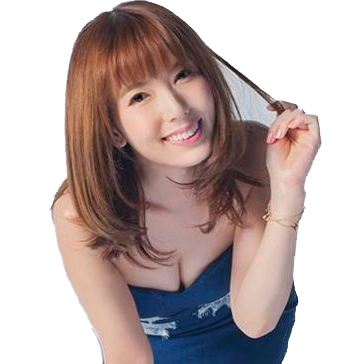
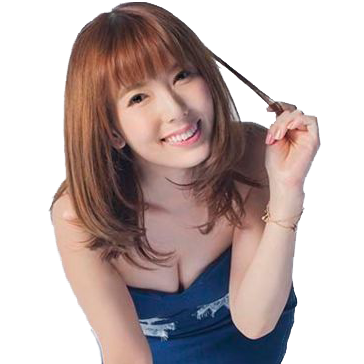
WeChat

diff --git a/src/MeowvBlog.API/wwwroot/css/main.min.css b/src/MeowvBlog.API/wwwroot/css/main.min.css
@@ -1,1 +1,1 @@
-@media(min-width:768px){.navbar{border-radius:0}.navbar-default .navbar-nav>li>a{padding-top:0;padding-bottom:0;line-height:40px;color:#999;font-weight:600}.nav>li>a{padding:0 25px}}.affix{width:100%;top:0;z-index:2}.navbar{margin:0;min-height:40px;box-shadow:none}.navbar-default .navbar-nav>li>a{color:#999;font-weight:normal}.navbar-default .navbar-nav>.active>a,.navbar-default .navbar-nav>.active>a:hover,.navbar-default .navbar-nav>.active>a:focus{color:#242424;background-color:transparent}.navbar-brand{height:auto;padding:0 0 0 15px}.navbar-default .navbar-toggle{margin-top:0;margin-bottom:0}.thumbnail{padding:5px 15px;overflow:hidden;border:none;box-shadow:1px 1px 1px rgba(229,229,229,.3)}.table td{white-space:pre}.panel{box-shadow:none}.panel-default{border:1px solid #efefef}.pagination>li>a,.pagination>li>span{color:#28a745;border:1px solid #efefef}.pagination>li>a:hover,.pagination>li>span:hover,.pagination>li>a:focus,.pagination>li>span:focus{color:#fff;background-color:#28a745}.pagination>.active>a,.pagination>.active>span,.pagination>.active>a:hover,.pagination>.active>span:hover,.pagination>.active>a:focus,.pagination>.active>span:focus{background-color:#28a745;border-color:#efefef}.pagination>.disabled>span,.pagination>.disabled>span:hover,.pagination>.disabled>span:focus,.pagination>.disabled>a,.pagination>.disabled>a:hover,.pagination>.disabled>a:focus{border-color:#efefef}textarea:focus,textarea.form-control:focus,input.form-control:focus,input[type=text]:focus,input[type=password]:focus,input[type=email]:focus,input[type=number]:focus,[type=text].form-control:focus,[type=password].form-control:focus,[type=email].form-control:focus,[type=tel].form-control:focus,[contenteditable].form-control:focus{-webkit-box-shadow:inset 0 -2px 0 #28a745;box-shadow:inset 0 -2px 0 #28a745}.btn{border:1px;box-shadow:none}.btn-blue{color:#999;background-color:#fff;border:1px solid #efefef}.btn-blue:hover,.btn-blue:focus,.btn-blue.focus,.btn-blue:active,.btn-blue.active,.open>.dropdown-toggle.btn-blue{color:#fff;background-color:#28a745;border-color:#efefef}.list-group-item{padding:10px;border:1px solid #efefef}.label-default{background-color:#efefef;color:#a6a6a6}.well{background-color:#28a745;color:#fff;font-weight:700;border-radius:3px}::-moz-selection{background:#fff;color:#000;text-shadow:none}::selection{background:#fff;color:#000;text-shadow:none}::-webkit-scrollbar{width:8px;height:8px}::-webkit-scrollbar-track{background:#fff;-webkit-box-shadow:inset 1px 1px 2px #e0e0e0;border:1px solid #d8d8d8}::-webkit-scrollbar-thumb{background:#e8e8e8;-webkit-box-shadow:inset 1px 1px 2px rgba(155,155,155,.4)}::-webkit-scrollbar-thumb:hover{-webkit-box-shadow:inset 1px 1px 10px rgba(0,0,0,.3)}::-webkit-scrollbar-thumb:active{background:#242424;-webkit-box-shadow:inset 1px 1px 2px rgba(0,0,0,.3)}body{position:relative;font-size:14px;background-color:#f9f9f9;font-family:'Lucida Grande','Helvetica Neue',Helvetica,Arial,Verdana,'Hiragino Sans GB','Microsoft YaHei',STHeiti,'WenQuanYi Micro Hei',SimSun,sans-serif}embed{display:none}::selection{background-color:rgba(40,167,69,.7);color:#fff}a{color:#797979}a:hover{color:#28a745;text-decoration:none}.vc-pt15{padding-top:15px}.vc-header{background-color:#fff;padding:5px 0;border-bottom:1px solid #efefef}.vc-header .vc-logo{margin:0;padding:0;width:100px;height:40px;text-indent:-999px;background:url(../imgs/logo.png) no-repeat}@media only screen and (-Webkit-min-device-pixel-ratio:1.5),only screen and (-moz-min-device-pixel-ratio:1.5),only screen and (-o-min-device-pixel-ratio:3/2),only screen and (min-device-pixel-ratio:1.5){.vc-header .vc-logo{margin:0;padding:0;width:100px;height:40px;text-indent:-999px;background:url(../imgs/logo@2x.png) no-repeat;background-size:100px 40px}}.vc-container{padding-top:60px}.vc-page-title{margin-top:10px;font-size:30px}.vc-page-title a{color:#555}.vc-page-title a:hover{color:#28a745}.vc-author-info{color:#aaa;font-size:14px;line-height:18px}.vc-author-info a{color:#aaa}.vc-author-info a:hover{color:#28a745}.vc-author-info>time,.vc-author-info>span{margin:0 .3em 0}.vc-author-info>:first-child{margin-left:0}.vc-pagelist-img{margin:-5px -15px 0}.vc-pagelist-img img{width:100%}.vc-widget-title{font-size:18px;margin:0 auto;padding:15px 15px 0}.vc-blog{width:100%;height:auto;padding:0 20px 20px}.vc-blog-title{font-size:30px;line-height:42px;font-weight:normal;text-transform:none}.vc-blog-content{width:100%;height:auto;margin:15px auto 10px;overflow:hidden;font-size:14px}.vc-blog-content img{max-width:100%;height:auto;text-align:center;overflow:hidden;margin:10px auto 10px}.vc-tags{font-size:12px}.top-tags a{font-size:12px;background:#ccc;border-radius:2px;color:#fff;display:inline-block;margin-bottom:5px;margin-right:5px;padding:2px 4px;-webkit-transition:background .3s;-moz-transition:background .3s;transition:background .3s}.vc-tags a{margin-right:.5em;padding:2px 4px;border-radius:2px;background:#ccc;color:#fff;-webkit-transition:background .3s;-moz-transition:background .3s;transition:background .3s}.vc-tags a:hover,.top-tags a:hover{background-color:#28a745}.vc-more-link{color:#28a745;font-weight:bold}.comment-respond{padding:10px 20px;border:1px solid #efefef;background-color:#fff}.comment-reply-title{font-weight:normal;font-size:18px;text-transform:uppercase;margin-bottom:20px;height:20px;color:#555;border-left:4px solid #28a745;padding-left:6px}.comment-form{clear:both}.comment-form-author{width:33.33%;float:left}.comment-form-email{width:100%;float:right}#commentform p.comment-form-comment,#commentform p.form-submit{clear:both}#commentform label{padding:6px 0;display:block}#commentform input[type="text"],#commentform textarea{padding:5px 1.8%;width:95%;border:1px solid #eee;font-size:14px;background:#fcfcfc;outline:none}#commentform textarea{margin-top:10px;width:100%}#commentform input#submit,#commentform input#reset{width:100px;height:32px;border:0;-webkit-border-radius:2px;-moz-border-radius:2px;border-radius:2px;background:#28a745;color:#fff;text-align:center;font-size:14px;cursor:pointer}#commentform #submit:hover,#commentform #reset:hover{background:#17a98c}.vc-comments-form .vc-textarea{background-color:#fff;padding:5px 10px}.vc-comments-form .vc-comments-text{border-radius:3px;border:1px solid #efefef;padding:0;overflow:hidden}.vc-comments-footer{background-color:#efefef}.vc-comments-smilies{margin:5px 0 0 7px}.vc-comments-footer img.emoji{display:inline !important;border:none !important;box-shadow:none !important;height:1em !important;width:1em !important;margin:0 .07em !important;vertical-align:-.1em !important;background:none !important;padding:0 !important;margin-right:5px !important;cursor:pointer;font-size:20px}.vc-comments-footer input{border-radius:0;background-color:#28a745}.vc-comments-footer input:hover,.vc-comments-footer input:focus{background-color:#28a745}.vc-comments-footer input:active{background-color:#15a186}#comments{clear:both;margin:40px 0}#comments-title{margin:0 0 1em;color:#999;font-weight:400;font-size:22px}.commentlist{margin:0 0 1em 0;padding:0;color:#666;list-style:none}.commentlist .comment{margin:1em 0 0 0;padding-top:1em;border-top:1px dotted #ccc}.commentlist .bypostauthor>div>div>.fn:after{margin-left:5px;padding:1px 3px;-webkit-border-radius:3px;-moz-border-radius:3px;border-radius:3px;background:#16a085;color:#fff;content:"博主";font-size:12px}.commentlist .bypostauthor{_border-top:1px solid #16a085}.commentlist .comment-body{position:relative;margin-left:60px}.commentlist .comment-author .avatar{position:absolute;top:0;left:-60px;border-radius:3px}.commentlist .comment-author .fn{color:#16a085;font-style:normal}.commentlist .comment-author .url{color:#16a085;font-weight:700}.commentlist .comment-author .url:hover{color:#28a745}.commentlist .comment-awaiting-moderation,.commentlist .comment-author time{float:right;color:#999;font-size:12px;white-space:nowrap}.commentlist .comment-content{margin-top:.5em;word-wrap:break-word;word-break:normal}.commentlist .comment-content p{margin:0 0 .5em}.commentlist .comment-content>p:last-child{margin-bottom:.2em}.commentlist .comment-content pre,.commentlist .comment-content code{margin:0 .2em;padding:.2em;background:#e7e7e7}.commentlist .comment-footer{text-align:right;font-size:12px;opacity:0;-webkit-transition:opacity .3s;-moz-transition:opacity .3s;transition:opacity .3s}.commentlist .comment-body:hover .comment-footer{opacity:1}.commentlist .comment-footer a{margin-left:1em;color:#16a085}.commentlist .comment-footer a:hover{color:#28a745}.commentlist .children{margin:1em 0 0 60px;padding:0;list-style-type:none}.commentlist .children .children{margin-left:40px}.commentlist .children .comment-body{margin-left:40px}.commentlist .children .comment-author .avatar{left:-40px;width:30px;height:30px}.vc-footer{background:#242424;padding-bottom:30px}.vc-footer .vc-footer-info{background:#2d2e2f}.vc-footer .vc-footer-info .vc-footer-menu{padding:12px 20px;text-align:center;list-style:none;overflow:hidden}.vc-footer .vc-footer-info .vc-footer-menu>li{vertical-align:top}.vc-footer .vc-footer-info .vc-footer-menu>li:nth-child(n+2){margin-left:15px}.vc-footer .vc-footer-info .vc-footer-menu>li,.vc-footer .vc-footer-info .vc-footer-menu>li>a{display:inline-block;font-size:14px}.vc-footer .vc-footer-copyright{padding-top:30px;text-align:center;font-weight:700}.vc-fixed{width:100%;position:fixed;bottom:0;left:0}.pager li>a{border-radius:0}.tagCloud{line-height:28px;text-align:justify}.list-unstyled{padding-left:0;margin-top:5px;list-style:none}.tagCloud li{display:inline-block;vertical-align:top}.tagCloud li a{border:1px solid #bbb;color:#444;display:block;height:33px;line-height:33px;margin-bottom:10px;margin-right:10px;padding:0 10px}.tagCloud li a:hover{background-color:#28a745 !important;border:1px solid #28a745 !important;color:#fff !important}.tagCloud li a.weight1{background-color:#c9302c;border:1px solid #d43f3a;color:#fff !important;font-size:145%}.tagCloud li a.weight2{background-color:#f0ad4e;border:1px solid #eea236;color:#fff !important;font-size:133%}.tagCloud li a.weight3{background-color:#449d44;border:1px solid #398439;color:#fff !important;font-size:115%}.tagCloud li a.weight4{background-color:#286090;border:1px solid #204d74;color:#fff !important;font-size:100%}.tagCloud li a.weight5{font-size:90%}.tagCloud li a.weight6{font-size:80%}.backtop{position:fixed;right:20px;bottom:50px;width:26px;height:61px;background:url(../imgs/backtop.png) no-repeat 50% 0;display:none;cursor:pointer}.backtop:hover{background-position:50% -62px}.friendlinks a{display:inline-block;margin:0 5px 5px 0;padding:0 4px 0 4px;transition:background .3s}.hot-articles ul{padding-left:0}.hot-articles ul li{list-style:none;padding-bottom:5px}.appitem{text-align:center;height:135px}.appitem a{font-weight:bold}.appicon{height:100px}.appicon img{height:100px}.upload-drop-zone{height:100px;line-height:100px;border-width:2px;border-style:dashed;border-color:#ccc;margin-top:10px;margin-bottom:10px;font-weight:bold;color:#ccc;text-align:center}.upload-drop-zone.drop{color:#222;border-color:#222}
+@media(min-width:768px){.navbar{border-radius:0}.navbar-default .navbar-nav>li>a{padding-top:0;padding-bottom:0;line-height:40px;color:#999;font-weight:600}.nav>li>a{padding:0 25px}}.affix{width:100%;top:0;z-index:2}.navbar{margin:0;min-height:40px;box-shadow:none}.navbar-default .navbar-nav>li>a{color:#999;font-weight:normal}.navbar-default .navbar-nav>.active>a,.navbar-default .navbar-nav>.active>a:hover,.navbar-default .navbar-nav>.active>a:focus{color:#242424;background-color:transparent}.navbar-brand{height:auto;padding:0 0 0 15px}.navbar-default .navbar-toggle{margin-top:0;margin-bottom:0}.thumbnail{padding:5px 15px;overflow:hidden;border:none;box-shadow:1px 1px 1px rgba(229,229,229,.3)}.table td{white-space:pre}.panel{box-shadow:none}.panel-default{border:1px solid #efefef}.pagination>li>a,.pagination>li>span{color:#28a745;border:1px solid #efefef}.pagination>li>a:hover,.pagination>li>span:hover,.pagination>li>a:focus,.pagination>li>span:focus{color:#fff;background-color:#28a745}.pagination>.active>a,.pagination>.active>span,.pagination>.active>a:hover,.pagination>.active>span:hover,.pagination>.active>a:focus,.pagination>.active>span:focus{background-color:#28a745;border-color:#efefef}.pagination>.disabled>span,.pagination>.disabled>span:hover,.pagination>.disabled>span:focus,.pagination>.disabled>a,.pagination>.disabled>a:hover,.pagination>.disabled>a:focus{border-color:#efefef}textarea:focus,textarea.form-control:focus,input.form-control:focus,input[type=text]:focus,input[type=password]:focus,input[type=email]:focus,input[type=number]:focus,[type=text].form-control:focus,[type=password].form-control:focus,[type=email].form-control:focus,[type=tel].form-control:focus,[contenteditable].form-control:focus{-webkit-box-shadow:inset 0 -2px 0 #28a745;box-shadow:inset 0 -2px 0 #28a745}.btn{border:1px;box-shadow:none}.btn-blue{color:#999;background-color:#fff;border:1px solid #efefef}.btn-blue:hover,.btn-blue:focus,.btn-blue.focus,.btn-blue:active,.btn-blue.active,.open>.dropdown-toggle.btn-blue{color:#fff;background-color:#28a745;border-color:#efefef}.list-group-item{padding:10px;border:1px solid #efefef}.label-default{background-color:#efefef;color:#a6a6a6}.well{background-color:#28a745;color:#fff;font-weight:700;border-radius:3px}::-moz-selection{background:#fff;color:#000;text-shadow:none}::selection{background:#fff;color:#000;text-shadow:none}::-webkit-scrollbar{width:8px;height:8px}::-webkit-scrollbar-track{background:#fff;-webkit-box-shadow:inset 1px 1px 2px #e0e0e0;border:1px solid #d8d8d8}::-webkit-scrollbar-thumb{background:#e8e8e8;-webkit-box-shadow:inset 1px 1px 2px rgba(155,155,155,.4)}::-webkit-scrollbar-thumb:hover{-webkit-box-shadow:inset 1px 1px 10px rgba(0,0,0,.3)}::-webkit-scrollbar-thumb:active{background:#242424;-webkit-box-shadow:inset 1px 1px 2px rgba(0,0,0,.3)}body{position:relative;font-size:14px;background-color:#f9f9f9;font-family:'Lucida Grande','Helvetica Neue',Helvetica,Arial,Verdana,'Hiragino Sans GB','Microsoft YaHei',STHeiti,'WenQuanYi Micro Hei',SimSun,sans-serif}embed{display:none}::selection{background-color:rgba(40,167,69,.7);color:#fff}a{color:#797979}a:hover{color:#28a745;text-decoration:none}.modal-body img{max-width:100%}.vc-pt15{padding-top:15px}.vc-header{background-color:#fff;padding:5px 0;border-bottom:1px solid #efefef}.vc-header .vc-logo{margin:0;padding:0;width:100px;height:40px;text-indent:-999px;background:url(../imgs/logo.png) no-repeat}@media only screen and (-Webkit-min-device-pixel-ratio:1.5),only screen and (-moz-min-device-pixel-ratio:1.5),only screen and (-o-min-device-pixel-ratio:3/2),only screen and (min-device-pixel-ratio:1.5){.vc-header .vc-logo{margin:0;padding:0;width:100px;height:40px;text-indent:-999px;background:url(../imgs/logo@2x.png) no-repeat;background-size:100px 40px}}.vc-container{padding-top:60px}.vc-page-title{margin-top:10px;font-size:30px}.vc-page-title a{color:#555}.vc-page-title a:hover{color:#28a745}.vc-author-info{color:#aaa;font-size:14px;line-height:18px}.vc-author-info a{color:#aaa}.vc-author-info a:hover{color:#28a745}.vc-author-info>time,.vc-author-info>span{margin:0 .3em 0}.vc-author-info>:first-child{margin-left:0}.vc-pagelist-img{margin:-5px -15px 0}.vc-pagelist-img img{width:100%}.vc-widget-title{font-size:18px;margin:0 auto;padding:15px 15px 0}.vc-blog{width:100%;height:auto;padding:0 20px 20px}.vc-blog-title{font-size:30px;line-height:42px;font-weight:normal;text-transform:none}.vc-blog-content{width:100%;height:auto;margin:15px auto 10px;overflow:hidden;font-size:14px}.vc-blog-content img{max-width:100%;height:auto;text-align:center;overflow:hidden;margin:10px auto 10px}.vc-tags{font-size:12px}.top-tags a{font-size:12px;background:#ccc;border-radius:2px;color:#fff;display:inline-block;margin-bottom:5px;margin-right:5px;padding:2px 4px;-webkit-transition:background .3s;-moz-transition:background .3s;transition:background .3s}.vc-tags a{margin-right:.5em;padding:2px 4px;border-radius:2px;background:#ccc;color:#fff;-webkit-transition:background .3s;-moz-transition:background .3s;transition:background .3s}.vc-tags a:hover,.top-tags a:hover{background-color:#28a745}.vc-more-link{color:#28a745;font-weight:bold}.comment-respond{padding:10px 20px;border:1px solid #efefef;background-color:#fff}.comment-reply-title{font-weight:normal;font-size:18px;text-transform:uppercase;margin-bottom:20px;height:20px;color:#555;border-left:4px solid #28a745;padding-left:6px}.comment-form{clear:both}.comment-form-author{width:33.33%;float:left}.comment-form-email{width:100%;float:right}#commentform p.comment-form-comment,#commentform p.form-submit{clear:both}#commentform label{padding:6px 0;display:block}#commentform input[type="text"],#commentform textarea{padding:5px 1.8%;width:95%;border:1px solid #eee;font-size:14px;background:#fcfcfc;outline:none}#commentform textarea{margin-top:10px;width:100%}#commentform input#submit,#commentform input#reset{width:100px;height:32px;border:0;-webkit-border-radius:2px;-moz-border-radius:2px;border-radius:2px;background:#28a745;color:#fff;text-align:center;font-size:14px;cursor:pointer}#commentform #submit:hover,#commentform #reset:hover{background:#17a98c}.vc-comments-form .vc-textarea{background-color:#fff;padding:5px 10px}.vc-comments-form .vc-comments-text{border-radius:3px;border:1px solid #efefef;padding:0;overflow:hidden}.vc-comments-footer{background-color:#efefef}.vc-comments-smilies{margin:5px 0 0 7px}.vc-comments-footer img.emoji{display:inline !important;border:none !important;box-shadow:none !important;height:1em !important;width:1em !important;margin:0 .07em !important;vertical-align:-.1em !important;background:none !important;padding:0 !important;margin-right:5px !important;cursor:pointer;font-size:20px}.vc-comments-footer input{border-radius:0;background-color:#28a745}.vc-comments-footer input:hover,.vc-comments-footer input:focus{background-color:#28a745}.vc-comments-footer input:active{background-color:#15a186}#comments{clear:both;margin:40px 0}#comments-title{margin:0 0 1em;color:#999;font-weight:400;font-size:22px}.commentlist{margin:0 0 1em 0;padding:0;color:#666;list-style:none}.commentlist .comment{margin:1em 0 0 0;padding-top:1em;border-top:1px dotted #ccc}.commentlist .bypostauthor>div>div>.fn:after{margin-left:5px;padding:1px 3px;-webkit-border-radius:3px;-moz-border-radius:3px;border-radius:3px;background:#16a085;color:#fff;content:"博主";font-size:12px}.commentlist .bypostauthor{_border-top:1px solid #16a085}.commentlist .comment-body{position:relative;margin-left:60px}.commentlist .comment-author .avatar{position:absolute;top:0;left:-60px;border-radius:3px}.commentlist .comment-author .fn{color:#16a085;font-style:normal}.commentlist .comment-author .url{color:#16a085;font-weight:700}.commentlist .comment-author .url:hover{color:#28a745}.commentlist .comment-awaiting-moderation,.commentlist .comment-author time{float:right;color:#999;font-size:12px;white-space:nowrap}.commentlist .comment-content{margin-top:.5em;word-wrap:break-word;word-break:normal}.commentlist .comment-content p{margin:0 0 .5em}.commentlist .comment-content>p:last-child{margin-bottom:.2em}.commentlist .comment-content pre,.commentlist .comment-content code{margin:0 .2em;padding:.2em;background:#e7e7e7}.commentlist .comment-footer{text-align:right;font-size:12px;opacity:0;-webkit-transition:opacity .3s;-moz-transition:opacity .3s;transition:opacity .3s}.commentlist .comment-body:hover .comment-footer{opacity:1}.commentlist .comment-footer a{margin-left:1em;color:#16a085}.commentlist .comment-footer a:hover{color:#28a745}.commentlist .children{margin:1em 0 0 60px;padding:0;list-style-type:none}.commentlist .children .children{margin-left:40px}.commentlist .children .comment-body{margin-left:40px}.commentlist .children .comment-author .avatar{left:-40px;width:30px;height:30px}.vc-footer{background:#242424;padding-bottom:30px}.vc-footer .vc-footer-info{background:#2d2e2f}.vc-footer .vc-footer-info .vc-footer-menu{padding:12px 20px;text-align:center;list-style:none;overflow:hidden}.vc-footer .vc-footer-info .vc-footer-menu>li{vertical-align:top}.vc-footer .vc-footer-info .vc-footer-menu>li:nth-child(n+2){margin-left:15px}.vc-footer .vc-footer-info .vc-footer-menu>li,.vc-footer .vc-footer-info .vc-footer-menu>li>a{display:inline-block;font-size:14px}.vc-footer .vc-footer-copyright{padding-top:30px;text-align:center;font-weight:700}.vc-fixed{width:100%;position:fixed;bottom:0;left:0}.pager li>a{border-radius:0}.tagCloud{line-height:28px;text-align:justify}.list-unstyled{padding-left:0;margin-top:5px;list-style:none}.tagCloud li{display:inline-block;vertical-align:top}.tagCloud li a{border:1px solid #bbb;color:#444;display:block;height:33px;line-height:33px;margin-bottom:10px;margin-right:10px;padding:0 10px}.tagCloud li a:hover{background-color:#28a745 !important;border:1px solid #28a745 !important;color:#fff !important}.tagCloud li a.weight1{background-color:#c9302c;border:1px solid #d43f3a;color:#fff !important;font-size:145%}.tagCloud li a.weight2{background-color:#f0ad4e;border:1px solid #eea236;color:#fff !important;font-size:133%}.tagCloud li a.weight3{background-color:#449d44;border:1px solid #398439;color:#fff !important;font-size:115%}.tagCloud li a.weight4{background-color:#286090;border:1px solid #204d74;color:#fff !important;font-size:100%}.tagCloud li a.weight5{font-size:90%}.tagCloud li a.weight6{font-size:80%}.backtop{position:fixed;right:20px;bottom:50px;width:26px;height:61px;background:url(../imgs/backtop.png) no-repeat 50% 0;display:none;cursor:pointer}.backtop:hover{background-position:50% -62px}.friendlinks a{display:inline-block;margin:0 5px 5px 0;padding:0 4px 0 4px;transition:background .3s}.hot-articles ul{padding-left:0}.hot-articles ul li{list-style:none;padding-bottom:5px}.appitem{text-align:center;height:135px}.appitem a{font-weight:bold}.appicon{height:100px}.appicon img{height:100px}.upload-drop-zone{height:100px;line-height:100px;border-width:2px;border-style:dashed;border-color:#ccc;margin-top:10px;margin-bottom:10px;font-weight:bold;color:#ccc;text-align:center}.upload-drop-zone.drop{color:#222;border-color:#222}

diff --git a/src/MeowvBlog.API/wwwroot/css/main.css b/src/MeowvBlog.API/wwwroot/css/main.css
@@ -219,6 +219,10 @@ a:hover {
     text-decoration: none;
 }
 
+.modal-body img {
+    max-width: 100%;
+}
+
 .vc-pt15 {
     padding-top: 15px;
 }

diff --git a/src/MeowvBlog.Services/ExcelHandler/Impl/ExcelHandlerService.cs b/src/MeowvBlog.Services/ExcelHandler/Impl/ExcelHandlerService.cs
@@ -58,7 +58,7 @@ namespace MeowvBlog.Services.ExcelHandler.Impl
                     var dto = new ExcelHandlerDto
                     {
                         Place = place,
-                        Area = area.ToString()
+                        Area = area.ToString().UrlDecode()
                     };
                     list.Add(dto);
                 }
